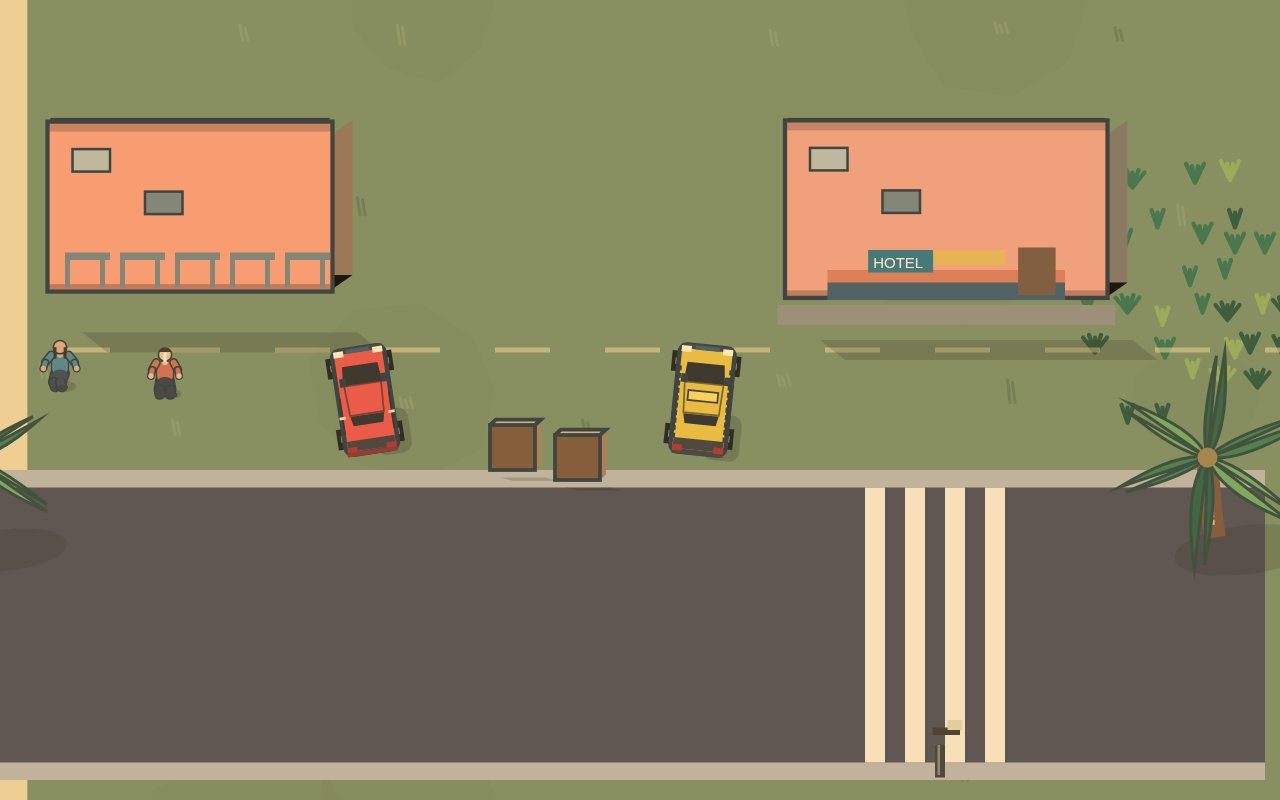
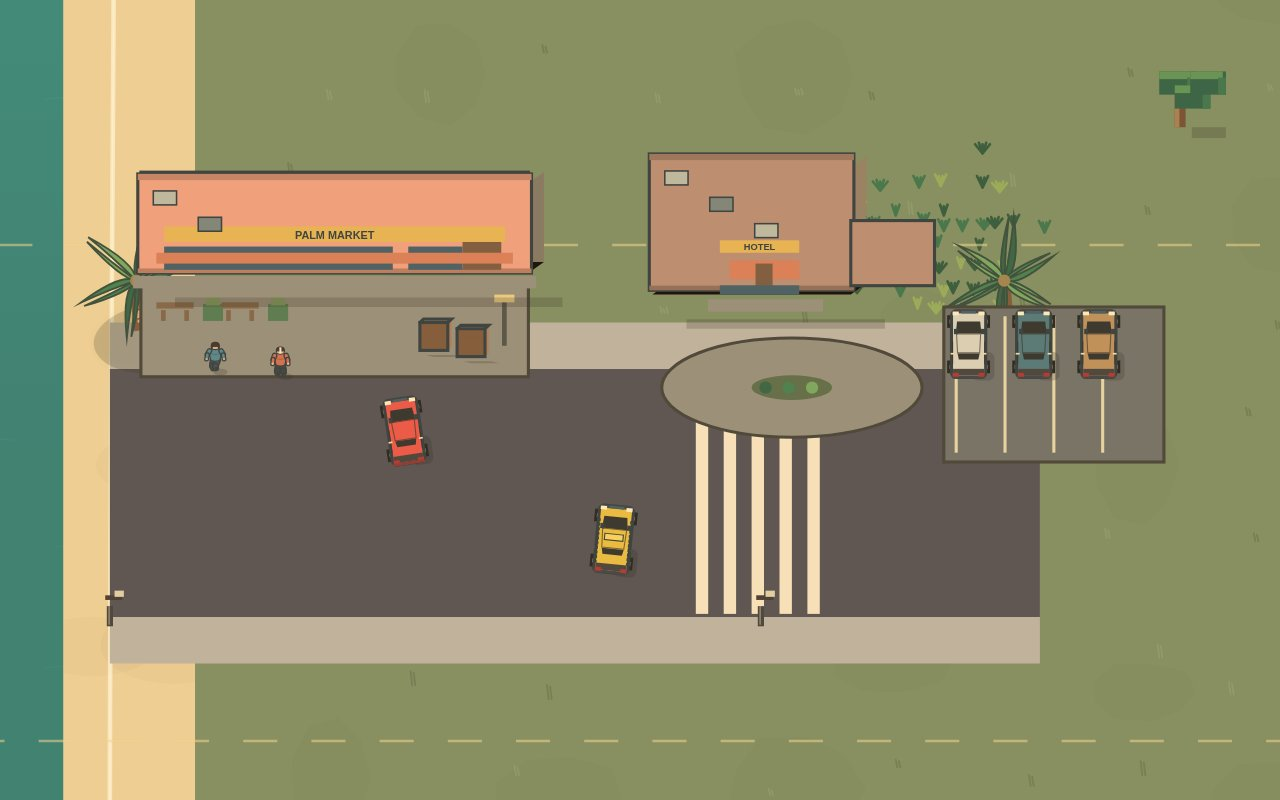
Round 54: test scene reframed, shop sign bug fixed (own-name signs), hotel forecourt rebuilt as driveway loop + separate parking court, crosswalk stripes to spec

diff --git a/game/src/render.js b/game/src/render.js
@@ -31,12 +31,13 @@ export const CityRenderer = class CityRenderer {
     c.fillStyle=ART.palette.swatches.s23; for(let i=0;i<9;i++){const y=((w.time*22+i*151)%w.city.height); c.fillRect(40+((i*67)%280),y,130,2);}if(w.timeOfDay==='night'){for(let i=0;i<28;i++){const x=550+(i%2)*70,y=((i*127+35)%w.city.height);c.fillStyle=ART.palette.swatches.s24;c.beginPath();c.arc(x,y,38,0,7);c.fill();c.fillStyle=ART.palette.swatches.s25;c.beginPath();c.arc(x,y,3,0,7);c.fill();}}
     c.strokeStyle=ART.palette.swatches.s26;c.lineWidth=3;c.beginPath();c.moveTo(500,0);c.bezierCurveTo(512,600,490,1300,506,1900);c.bezierCurveTo(518,2500,488,3050,500,w.city.height);c.stroke();c.strokeStyle=ART.palette.swatches.s27;c.lineWidth=1;c.stroke();
     c.fillStyle=CONFIG.palette.asphalt; c.lineCap='butt'; for(const r of w.city.roads){ if(!this._visible(Math.min(r.x1,r.x2),Math.min(r.y1,r.y2),Math.abs(r.x2-r.x1)||r.width,Math.abs(r.y2-r.y1)||r.width,camera))continue; c.lineWidth=r.width+60;c.strokeStyle=CONFIG.palette.sidewalk;c.beginPath();c.moveTo(r.x1,r.y1);c.lineTo(r.x2,r.y2);c.stroke();c.lineWidth=r.width;c.strokeStyle=CONFIG.palette.asphalt;c.stroke();c.save();c.beginPath();c.moveTo(r.x1,r.y1);c.lineTo(r.x2,r.y2);c.lineWidth=r.width;c.clip();this._tiles(c,Math.min(r.x1,r.x2)-r.width,Math.min(r.y1,r.y2)-r.width,Math.abs(r.x2-r.x1)+r.width*2||r.width*2,Math.abs(r.y2-r.y1)+r.width*2||r.width*2,'asphalt');c.restore();c.setLineDash([22,22]);c.lineWidth=ART.outline.roadMark;c.strokeStyle=ART.palette.swatches.s28;c.stroke();c.setLineDash([]);if(r.x1!==r.x2){for(let x=720;x<4800;x+=300)if(Math.abs(r.y1-120)%300===0){c.fillStyle=ART.palette.swatches.s29;for(let k=-3;k<=3;k++)c.fillRect(x+k*8-4,r.y1-r.width/2-9,8,18);}} }
-    if(w._styleTest){c.fillStyle=ART.palette.white;for(let x=878;x<=950;x+=18)c.fillRect(x,1042,9,156);}
+    if(w._styleTest){c.fillStyle=ART.palette.white;for(let x=878;x<=950;x+=18)c.fillRect(x,1042,8,156);}
     // Seeded, curved palm fronds with shared wood and foliage materials.
     for(const p of w.city.palms) if(this._visible(p.x-58,p.y-62,116,78,camera)){const h=this._hash(p.x|0,p.y|0),scale=.9+(h%21)/100,turn=((h>>>8)%17-8)*Math.PI/180, crownX=p.x-3,crownY=p.y-32; c.save();c.translate(p.x,p.y);c.fillStyle=ART.palette.palmShadow;c.shadowColor=ART.palette.palmShadow;c.shadowBlur=8;c.beginPath();c.ellipse(10,5,38*scale,21*scale,-.12,0,Math.PI*2);c.fill();c.shadowBlur=0;c.strokeStyle=ART.palette.woodDark;c.lineWidth=8*scale;c.beginPath();c.moveTo(0,0);c.quadraticCurveTo(-2,-13,-3,-31);c.stroke();c.strokeStyle=ART.palette.woodLight;c.lineWidth=2;c.beginPath();c.moveTo(-1,-5);c.lineTo(-3,-29);c.stroke();for(let rib=0;rib<4;rib++){c.strokeStyle=ART.palette.woodDark;c.lineWidth=1;c.beginPath();c.moveTo(-3,-7-rib*6);c.lineTo(1,-8-rib*6);c.stroke();}c.translate(-3,-32);for(let i=0;i<6;i++){const a=i*Math.PI/3+turn+(((h>>>(i*3))&7)-3)*Math.PI/180,L=(34+((h>>>(i*4))&7))*scale,W=(8+((h>>>(i*2))&3))*scale;c.save();c.rotate(a);c.fillStyle=ART.palette.palmGreens[i%3];c.strokeStyle=ART.palette.palmOutline;c.lineWidth=ART.outline.palm;c.beginPath();c.moveTo(0,0);c.quadraticCurveTo(W*.9,-L*.18,W*.16,-L);c.quadraticCurveTo(W*.2,-L*.48,0,0);c.quadraticCurveTo(-W*.56,-L*.2,-W*.13,-L*.97);c.quadraticCurveTo(-W*.13,-L*.48,0,0);c.closePath();c.fill();c.stroke();c.restore();}c.fillStyle=ART.palette.palmMid;c.beginPath();c.arc(0,0,4,0,Math.PI*2);c.fill();c.restore();}
     for(const t of [[820,490],[1190,880],[1460,1210],[3440,620],[3610,720],[3240,1160],[1590,2480],[2110,2880]])if(this._visible(t[0]-20,t[1]-48,40,55,camera)){const h=this._hash(t[0],t[1]);c.fillStyle=ART.palette.swatches.s30;c.fillRect(t[0]+8,t[1]+4,22,7);c.fillStyle=ART.palette.swatches.s31;c.fillRect(t[0]-3,t[1]-21,7,25);c.fillStyle=ART.palette.swatches.s32;c.fillRect(t[0]-3,t[1]-21,3,25);for(let q=0;q<3;q++){const lx=t[0]-13+q*10,ly=t[1]-32+q%2*9;c.fillStyle=ART.palette.swatches.s33;c.fillRect(lx,ly,23,15);c.fillStyle=ART.palette.swatches.s34;c.fillRect(lx,ly,21,5);c.fillStyle=ART.palette.swatches.s5;c.fillRect(lx+18,ly+4,5,11);}}
-    for(const q of w.city.lots||[]){if(!this._visible(q.x,q.y,q.w,q.d,camera))continue;const type=q.type||'yard';this._tiles(c,q.x,q.y,q.w,q.d,type==='parking'?'parking':type==='construction'?'sand':type==='plaza'?'concrete':'grass');c.strokeStyle=ART.palette.swatches.s35;c.lineWidth=2;c.strokeRect(q.x,q.y,q.w,q.d);if(type==='parking'){for(let i=0;i<4;i++){const bx=q.x+8+i*(q.w-16)/4;c.strokeStyle=ART.palette.swatches.s36;c.lineWidth=2;c.beginPath();c.moveTo(bx,q.y+6);c.lineTo(bx,q.y+q.d-6);c.stroke();}for(let i=0;i<q.cars;i++){const px=q.x+8+(i%3)*34,py=q.y+12+Math.floor(i/3)*30;new Vehicle(px+6.5,py+11.5,'sedan',[ART.palette.swatches.s37,ART.palette.swatches.s38,ART.palette.swatches.s39,ART.palette.swatches.s40][i%4],0).draw(c,camera,w);}}else if(type==='plaza'){for(let i=0;i<2;i++){const px=q.x+10+i*42,py=q.y+12;c.fillStyle=ART.palette.swatches.s41;c.fillRect(px,py,24,4);c.fillRect(px+3,py+5,3,7);c.fillRect(px+18,py+5,3,7);c.fillStyle=ART.palette.swatches.s42;c.fillRect(px+30,py+1,13,11);c.fillStyle=ART.palette.swatches.s43;c.fillRect(px+32,py-3,9,5);}c.fillStyle=ART.palette.swatches.s44;c.fillRect(q.x+q.w-17,q.y+9,3,31);c.fillStyle=ART.palette.swatches.s45;c.fillRect(q.x+q.w-22,q.y+7,13,5);}else{c.strokeStyle=type==='yard'?ART.palette.swatches.s46:ART.palette.swatches.s47;c.lineWidth=3;c.strokeRect(q.x+3,q.y+3,q.w-6,q.d-6);for(let i=0;i<3;i++){const px=q.x+10+i*19,py=q.y+q.d*.55;c.fillStyle=type==='yard'?ART.palette.swatches.s48:ART.palette.swatches.s49;c.fillRect(px,py-10,15,10);c.fillStyle=ART.palette.swatches.s50;c.fillRect(px,py-10,15,2);}}}
-    if(w._styleHotelIsland){const q=w._styleHotelIsland;c.fillStyle=ART.palette.grassDark;c.beginPath();c.ellipse(q.x+q.w/2,q.y+q.h/2,q.w/2,q.h/2,0,0,Math.PI*2);c.fill();for(let i=0;i<3;i++){c.fillStyle=ART.palette.palmGreens[i];c.beginPath();c.arc(q.x+9+i*15,q.y+q.h/2,4,0,Math.PI*2);c.fill();}}
+    if(w._styleHotelDrive){const q=w._styleHotelDrive;c.fillStyle=ART.palette.concrete;c.beginPath();c.ellipse(q.x,q.y,q.rx,q.ry,0,0,Math.PI*2);c.fill();c.strokeStyle=ART.palette.swatches.s35;c.lineWidth=2;c.stroke();}
+    for(const q of w.city.lots||[]){if(!this._visible(q.x,q.y,q.w,q.d,camera))continue;const type=q.type||'yard';this._tiles(c,q.x,q.y,q.w,q.d,type==='parking'?'parking':type==='construction'?'sand':type==='plaza'?'concrete':'grass');c.strokeStyle=ART.palette.swatches.s35;c.lineWidth=2;c.strokeRect(q.x,q.y,q.w,q.d);if(type==='parking'){for(let i=0;i<4;i++){const bx=q.x+8+i*(q.w-16)/4;c.strokeStyle=ART.palette.swatches.s36;c.lineWidth=2;c.beginPath();c.moveTo(bx,q.y+6);c.lineTo(bx,q.y+q.d-6);c.stroke();}for(let i=0;i<q.cars;i++){const px=q.x+8+(i%3)*42,py=q.y+11+Math.floor(i/3)*43;new Vehicle(px+8,py+13,'sedan',[ART.palette.swatches.s37,ART.palette.swatches.s38,ART.palette.swatches.s39,ART.palette.swatches.s40][i%4]).draw(c,camera,w);}}else if(type==='plaza'){for(let i=0;i<2;i++){const px=q.x+10+i*42,py=q.y+12;c.fillStyle=ART.palette.swatches.s41;c.fillRect(px,py,24,4);c.fillRect(px+3,py+5,3,7);c.fillRect(px+18,py+5,3,7);c.fillStyle=ART.palette.swatches.s42;c.fillRect(px+30,py+1,13,11);c.fillStyle=ART.palette.swatches.s43;c.fillRect(px+32,py-3,9,5);}c.fillStyle=ART.palette.swatches.s44;c.fillRect(q.x+q.w-17,q.y+9,3,31);c.fillStyle=ART.palette.swatches.s45;c.fillRect(q.x+q.w-22,q.y+7,13,5);}else{c.strokeStyle=type==='yard'?ART.palette.swatches.s46:ART.palette.swatches.s47;c.lineWidth=3;c.strokeRect(q.x+3,q.y+3,q.w-6,q.d-6);for(let i=0;i<3;i++){const px=q.x+10+i*19,py=q.y+q.d*.55;c.fillStyle=type==='yard'?ART.palette.swatches.s48:ART.palette.swatches.s49;c.fillRect(px,py-10,15,10);c.fillStyle=ART.palette.swatches.s50;c.fillRect(px,py-10,15,2);}}}
+    if(w._styleHotelIsland){const q=w._styleHotelIsland;c.fillStyle=ART.palette.concrete;c.beginPath();c.ellipse(q.x+q.w/2,q.y+q.h/2,q.w/2+4,q.h/2+4,0,0,Math.PI*2);c.fill();c.fillStyle=ART.palette.grassDark;c.beginPath();c.ellipse(q.x+q.w/2,q.y+q.h/2,q.w/2,q.h/2,0,0,Math.PI*2);c.fill();for(let i=0;i<3;i++){c.fillStyle=ART.palette.palmGreens[i];c.beginPath();c.arc(q.x+9+i*15,q.y+q.h/2,4,0,Math.PI*2);c.fill();}}
     const ordered=w.city.buildings.slice().sort((a,b)=>a.y-b.y);
     for(const b of ordered){if(!this._visible(b.x,b.y-b.height,b.w+30,b.d+b.height,camera))continue;const h=Math.max(7,Math.min(14,b.height*.12)),top=b.y-b.height*.12,x=b.x,y=b.y,d=b.d,wid=b.w,kind=b.archetype==='house'?'house':b.kind==='warehouse'?'warehouse':b.district==='airport'?'airport':b.archetype==='hotel'?'hotel':b.archetype==='apartment'?'apartment':b.archetype==='shop'?'shop':'apartment';
       c.fillStyle=ART.palette.buildingShadow;c.beginPath();c.moveTo(x+ART.shadow.direction.x*ART.shadow.height.building,y+d+ART.shadow.height.building*.72);c.lineTo(x+wid+ART.shadow.direction.x*ART.shadow.height.building,y+d+ART.shadow.height.building*.72);c.lineTo(x+wid+ART.shadow.height.building,y+d+ART.shadow.height.building);c.lineTo(x+ART.shadow.height.building,y+d+ART.shadow.height.building);c.closePath();c.fill();
@@ -45,8 +46,8 @@ export const CityRenderer = class CityRenderer {
       // Distinct roof plans identify use before small rooftop equipment.
       c.fillStyle=roof;if(b.footprint==='L'&&kind!=='hotel'){c.beginPath();c.moveTo(x-2,top-3);c.lineTo(x+wid+2,top-3);c.lineTo(x+wid+2,top+d*.42);c.lineTo(x+wid*.48,top+d*.42);c.lineTo(x+wid*.48,top+d+3);c.lineTo(x-2,top+d+3);c.closePath();c.fill();c.strokeStyle=ART.palette.outline;c.lineWidth=ART.outline.building;c.stroke();}else{c.fillRect(x-2,top-3,wid+4,d+4);c.strokeStyle=ART.palette.outline;c.lineWidth=ART.outline.building;c.strokeRect(x-2,top-3,wid+4,d+6);}c.fillStyle=shade(b.roof,.92);c.fillRect(x-2,top-3,wid+4,4);c.fillStyle=shade(b.roof,.86);c.fillRect(x-2,top+d,wid+4,3);
       if(kind==='house'){c.fillStyle=shade(b.roof,.9);c.beginPath();c.moveTo(x-2,top+2);c.lineTo(x+wid*.5,top-12);c.lineTo(x+wid+2,top+2);c.lineTo(x+wid-3,top+9);c.lineTo(x+wid*.5,top-2);c.lineTo(x+3,top+9);c.closePath();c.fill();c.stroke();}
-      if(kind==='shop'){c.fillStyle=ART.palette.concrete;c.fillRect(x-5,y+d+2,wid+10,8);c.fillStyle=ART.palette.awning;c.fillRect(x+wid*.06,y+d-13,wid*.88,7);c.fillStyle=ART.palette.sign;c.fillRect(x+wid*.31,y+d-21,wid*.38,6);c.fillStyle=ART.palette.glass;c.fillRect(x+wid*.08,y+d-6,wid*.84,6);c.fillStyle=ART.palette.doorWood;c.fillRect(x+wid*.78,y+d-21,Math.max(7,wid*.1),19);}
-      if(kind==='hotel'){const wing=b.wing;if(wing){c.fillStyle=roof;c.fillRect(wing.x,top+wing.y-y,wing.w,wing.d);c.strokeStyle=ART.palette.outline;c.lineWidth=ART.outline.building;c.strokeRect(wing.x,top+wing.y-y,wing.w,wing.d);}c.fillStyle=ART.palette.concrete;c.fillRect(x+wid*.28,y+d+3,wid*.58,8);c.fillStyle=ART.palette.awning;c.fillRect(x+wid*.39,y+d-22,wid*.35,12);c.fillStyle=ART.palette.doorWood;c.fillRect(x+wid*.52,y+d-20,11,19);c.fillStyle=ART.palette.glass;c.fillRect(x+wid*.34,y+d-6,wid*.4,6);}
+      if(kind==='shop'){c.fillStyle=ART.palette.concrete;c.fillRect(x-5,y+d+2,wid+10,8);c.fillStyle=ART.palette.glass;c.fillRect(x+wid*.06,y+d-17,wid*.59,15);c.fillRect(x+wid*.69,y+d-17,wid*.14,15);c.fillStyle=ART.palette.doorWood;c.fillRect(x+wid*.83,y+d-20,Math.max(7,wid*.1),18);c.fillStyle=ART.palette.sign;c.fillRect(x+wid*.06,y+d-30,wid*.88,10);c.fillStyle=ART.palette.outline;c.font='bold 7px sans-serif';c.textAlign='center';c.fillText(b.name||'SHOP',x+wid*.5,y+d-22);c.fillStyle=ART.palette.awning;c.fillRect(x+wid*.04,y+d-13,wid*.92,7);}
+      if(kind==='hotel'){const wing=b.wing;if(wing){c.fillStyle=roof;c.fillRect(wing.x,top+wing.y-y,wing.w,wing.d);c.strokeStyle=ART.palette.outline;c.lineWidth=ART.outline.building;c.strokeRect(wing.x,top+wing.y-y,wing.w,wing.d);}c.fillStyle=ART.palette.concrete;c.fillRect(x+wid*.28,y+d+3,wid*.58,8);c.fillStyle=ART.palette.awning;c.fillRect(x+wid*.39,y+d-22,wid*.35,12);c.fillStyle=ART.palette.doorWood;c.fillRect(x+wid*.52,y+d-20,11,19);c.fillStyle=ART.palette.glass;c.fillRect(x+wid*.34,y+d-6,wid*.4,6);c.fillStyle=ART.palette.sign;c.fillRect(x+wid*.34,y+d-35,wid*.4,8);c.fillStyle=ART.palette.outline;c.font='bold 6px sans-serif';c.textAlign='center';c.fillText(b.name||'HOTEL',x+wid*.54,y+d-29);}
       if(kind==='apartment'){c.fillStyle=ART.palette.metalMid;for(let bx=x+5;bx<x+wid-8;bx+=Math.max(18,wid/5)){c.fillRect(bx,y+d-16,Math.min(18,wid/6),3);c.fillRect(bx,y+d-13,2,11);c.fillRect(bx+Math.min(16,wid/6)-2,y+d-13,2,11);}}
       if(kind==='warehouse'||kind==='airport'){const bays=kind==='airport'?2:Math.max(2,Math.min(4,Math.floor(wid/34)));for(let i=0;i<bays;i++){const bw=kind==='airport'?Math.min(52,wid*.28):Math.min(24,wid/(bays+1)),bx=x+8+i*(wid-16)/bays;c.fillStyle=ART.palette.doorDark;c.fillRect(bx,y+d-28,bw,26);c.strokeStyle=ART.palette.metalLight;c.lineWidth=1.2;c.strokeRect(bx,y+d-28,bw,26);for(let ry=y+d-23;ry<y+d-4;ry+=5){c.beginPath();c.moveTo(bx+2,ry);c.lineTo(bx+bw-2,ry);c.stroke();}}}
       // Bounded, purpose-specific rooftop equipment.
@@ -57,8 +58,8 @@ export const CityRenderer = class CityRenderer {
     for(const p of w.city.streetProps||[]){if(!this._visible(p.x-16,p.y-22,32,42,camera))continue;c.fillStyle=ART.palette.propShadow;c.beginPath();c.ellipse(p.x+3,p.y+2,11,4,0,0,Math.PI*2);c.fill();c.strokeStyle=ART.palette.outline;c.lineWidth=ART.outline.prop;if(p.kind==='bench'){c.fillStyle=ART.palette.wood;c.fillRect(p.x-14,p.y-13,28,5);c.strokeRect(p.x-14,p.y-13,28,5);c.fillStyle=ART.palette.metalMid;c.fillRect(p.x-11,p.y-8,3,9);c.fillRect(p.x+8,p.y-8,3,9);}else if(p.kind==='planter'){c.fillStyle=ART.palette.concrete;c.fillRect(p.x-8,p.y-9,16,9);c.strokeRect(p.x-8,p.y-9,16,9);c.fillStyle=ART.palette.palmGreens[1];c.beginPath();c.ellipse(p.x,p.y-13,7,5,0,0,Math.PI*2);c.fill();}else if(p.kind==='postbox'){c.fillStyle=ART.palette.propRed;c.fillRect(p.x-5,p.y-19,10,12);c.strokeRect(p.x-5,p.y-19,10,12);c.fillStyle=ART.palette.metalLight;c.fillRect(p.x-2,p.y-16,4,2);}else if(p.kind==='bin'){c.fillStyle=ART.palette.metalMid;c.fillRect(p.x-6,p.y-17,12,15);c.strokeRect(p.x-6,p.y-17,12,15);c.fillStyle=ART.palette.metalLight;c.fillRect(p.x-7,p.y-19,14,3);}else{c.fillStyle=ART.palette.metalMid;c.fillRect(p.x-2,p.y-10,4,11);c.fillRect(p.x-7,p.y-21,14,4);c.fillStyle=ART.palette.lampGlass;c.beginPath();c.arc(p.x,p.y-23,4,0,Math.PI*2);c.fill();}}
     for(const p of w.city.piers){ c.fillStyle=ART.palette.swatches.s51;c.fillRect(p.x2,p.y2-7,p.x1-p.x2,p.width); for(let x=p.x2;x<p.x1;x+=28)c.fillRect(x,p.y2-9,5,22); }
     {for(const road of w.city.roads)for(let n=0;n<10;n++){const x=road.x1===road.x2?road.x1+road.width/2+7:road.x1+n*420,y=road.x1===road.x2?n*360+70:road.y1+road.width/2+5;if(!this._visible(x-7,y-30,14,34,camera))continue;if(w.timeOfDay==='night'){c.fillStyle=ART.palette.swatches.s52;c.fillRect(x-7,y-24,20,12);c.fillStyle=ART.palette.swatches.s53;c.beginPath();c.arc(x,y,24,0,7);c.fill();}c.fillStyle=ART.palette.swatches.s54;c.fillRect(x-2,y-12,4,13);c.fillStyle=ART.palette.swatches.s55;c.fillRect(x-1,y-12,1,12);c.fillStyle=ART.palette.swatches.s56;c.fillRect(x-3,y-19,11,3);c.fillStyle=w.timeOfDay==='night'?ART.palette.swatches.s57:ART.palette.swatches.s58;c.fillRect(x+3,y-22,6,4);if(w.timeOfDay==='night'){c.fillStyle=ART.palette.swatches.s59;c.fillRect(x+4,y-22,3,2);}}}
-    // Storefront signs make the beachfront blocks read as a resort strip.
-    for(const b of w.city.buildings.filter(q=>q.district==='coral'&&q.awning)){c.fillStyle=ART.palette.swatches.s60;c.fillRect(b.x+b.w*.25,b.y+b.d-20,26,9);c.fillStyle=ART.palette.swatches.s61;c.font='6px sans-serif';c.fillText('HOTEL',b.x+b.w*.25+2,b.y+b.d-13);}
+    // Building identity is attached to each building's own type and name.
+    for(const b of w.city.buildings.filter(q=>q.sign&&!['hotel'].includes(q.archetype||q.kind))){c.fillStyle=ART.palette.swatches.s60;c.fillRect(b.x+b.w*.25,b.y+b.d-20,26,9);c.fillStyle=ART.palette.swatches.s61;c.font='6px sans-serif';c.fillText(b.sign||b.name,b.x+b.w*.25+2,b.y+b.d-13);}
     // Three small asphalt parking courts with bay stripes and parked cars.
     for(const [x,y] of [[950,510],[2670,1740],[3820,1850]]){c.fillStyle=ART.palette.swatches.s62;c.fillRect(x,y,112,82);c.strokeStyle=ART.palette.swatches.s63;for(let k=0;k<4;k++){c.strokeRect(x+6+k*26,y+8,22,34);c.fillStyle=[ART.palette.swatches.s64,ART.palette.swatches.s65,ART.palette.swatches.s66,ART.palette.swatches.s67][k];c.fillRect(x+9+k*26,y+14,16,28);}}
     for(const [bi,b] of (w.city.boats||[]).entries()){c.save();c.translate(b.x,b.y);c.rotate(b.a);const L=Math.max(54,b.l),W=L*.34,type=bi%3,colors=[ART.palette.boatHull,ART.palette.boatBlue,ART.palette.boatWork];c.fillStyle=ART.palette.boatShadow;c.beginPath();c.ellipse(0,4,L*.58,W*.58,0,0,Math.PI*2);c.fill();c.fillStyle=colors[type];c.strokeStyle=ART.palette.outline;c.lineWidth=ART.outline.prop;c.beginPath();c.moveTo(-L*.52,-W*.34);c.lineTo(L*.32,-W*.46);c.lineTo(L*.52,0);c.lineTo(L*.32,W*.46);c.lineTo(-L*.5,W*.4);c.lineTo(-L*.43,0);c.closePath();c.fill();c.stroke();c.fillStyle=ART.palette.boatInner;c.beginPath();c.moveTo(-L*.4,-W*.24);c.lineTo(L*.28,-W*.3);c.lineTo(L*.4,0);c.lineTo(L*.28,W*.3);c.lineTo(-L*.4,W*.24);c.closePath();c.fill();if(type===0){c.fillStyle=ART.palette.boatSeat;c.fillRect(-L*.13,-W*.29,L*.34,W*.58);c.fillStyle=ART.palette.boatTrim;c.fillRect(-L*.09,-W*.25,L*.24,W*.5);c.fillStyle=ART.palette.boatSeat;c.fillRect(-L*.3,-W*.12,L*.12,W*.24);}else if(type===1){c.fillStyle=ART.palette.boatCabin;c.fillRect(-L*.12,-W*.31,L*.35,W*.62);c.fillStyle=ART.palette.boatGlass;c.fillRect(-L*.07,-W*.28,L*.25,W*.16);c.fillRect(-L*.07,W*.12,L*.25,W*.16);}else{c.fillStyle=ART.palette.boatSeat;c.fillRect(-L*.25,-W*.12,L*.26,W*.24);c.fillStyle=ART.palette.metalMid;c.fillRect(-L*.03,-W*.28,L*.18,W*.56);c.fillStyle=ART.palette.boatTrim;c.fillRect(L*.23,-W*.2,L*.11,W*.4);}c.fillStyle=ART.palette.fender;c.beginPath();c.arc(-L*.18,-W*.4,2.2,0,Math.PI*2);c.arc(L*.12,-W*.43,2.2,0,Math.PI*2);c.fill();c.strokeStyle=ART.palette.rope;c.lineWidth=1.2;c.beginPath();c.moveTo(-L*.48,-W*.16);c.lineTo(-L*.56,-W*.62);c.stroke();c.strokeStyle=ART.palette.wave;c.lineWidth=1.5;c.beginPath();c.moveTo(-L*.25,W*.55);c.quadraticCurveTo(0,W*.68,L*.26,W*.54);c.stroke();c.restore();const pier=(w.city.piers||[]).reduce((best,p)=>Math.abs(p.y2-b.y)<Math.abs(best.y2-b.y)?p:best,(w.city.piers||[])[0]);if(pier){const tx=Math.max(pier.x2,Math.min(pier.x1,b.x)),ty=pier.y2;c.strokeStyle=ART.palette.rope;c.lineWidth=1;c.beginPath();c.moveTo(b.x-L*.42,b.y-W*.2);c.lineTo(tx,ty);c.stroke();}}for(const b of w.city.buoys||[]){c.fillStyle=ART.palette.swatches.s68;c.beginPath();c.arc(b.x,b.y,4,0,7);c.fill();}

diff --git a/game/src/shots.js b/game/src/shots.js
@@ -15,13 +15,13 @@ export const ShotDirector=class ShotDirector{
    // Single two-lane carriageway, with paved sidewalks and a visible loading forecourt.
    w.city.roads.push({x1:500,y1:1120,x2:1100,y2:1120,width:160});w.city.palms.push({x:520,y:1015},{x:1080,y:1015});
    w.city.buildings.push(
-    {x:520,y:920,w:250,d:58,height:24,kind:'shop',archetype:'shop',commercial:true,awning:true,color:'#c7b9a0',roof:'#d18b70',district:'coral',treatment:1,roofProps:2},
-    {x:850,y:910,w:128,d:82,height:48,kind:'hotel',archetype:'hotel',commercial:true,footprint:'L',wing:{x:978,y:950,w:54,d:42},awning:true,color:'#e4c7a0',roof:'#9f7966',district:'coral',treatment:0,roofProps:3}
+    {x:520,y:920,w:250,d:58,height:24,kind:'shop',archetype:'shop',name:'PALM MARKET',commercial:true,awning:true,color:'#c7b9a0',roof:'#d18b70',district:'coral',treatment:1,roofProps:2},
+    {x:850,y:910,w:128,d:82,height:48,kind:'hotel',archetype:'hotel',name:'HOTEL',commercial:true,footprint:'L',wing:{x:978,y:950,w:54,d:42},awning:true,color:'#e4c7a0',roof:'#9f7966',district:'coral',treatment:0,roofProps:3}
    );
-   w.city.lots.push({x:520,y:985,w:250,d:60,type:'plaza',cars:0},{x:830,y:992,w:178,d:104,type:'parking',cars:3});
-   // The hotel loop is a continuous paved driveway with a planted island.
-   w.city.lots.push({x:845,y:1020,w:138,d:48,type:'parking',cars:0});w._styleHotelIsland={x:890,y:1030,w:48,h:22};
-   w._styleCrates=[{x:700,y:1028,w:18,h:18},{x:724,y:1032,w:18,h:18}];game.camera.x=800;game.camera.y=1080;game.camera.zoom=2.5;w.objective=null;w.heat=0;w.wanted.heat=0;return true;
+   w.city.lots.push({x:520,y:985,w:250,d:60,type:'plaza',cars:0},{x:1038,y:1000,w:142,d:100,type:'parking',cars:3});
+   // A paved loop serves the hotel entrance; the parking court sits clear beside it.
+   w._styleHotelDrive={x:940,y:1052,rx:84,ry:32};w._styleHotelIsland={x:914,y:1044,w:52,h:16};
+   w._styleCrates=[{x:700,y:1028,w:18,h:18},{x:724,y:1032,w:18,h:18}];game.camera.x=842;game.camera.y=1060;game.camera.zoom=1.55;w.objective=null;w.heat=0;w.wanted.heat=0;return true;
   }
   if(name==='cover'){
    w.setTimeOfDay('day');game.camera.zoom=3.6;game.camera.x=640;game.camera.y=1000;
